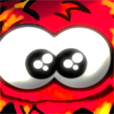
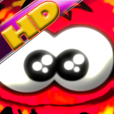
Final version for distribution on all platforms.

diff --git a/source/FuzzyCubes.cpp b/source/FuzzyCubes.cpp
@@ -6514,11 +6514,13 @@ void Init()
 {
 	// android
 	// initialize orientation for android, take out for ios
+	// testing
+	/* Only for marmalade 6.0
 	if( s3eDeviceGetInt( S3E_DEVICE_OS ) != S3E_OS_ID_IPHONE )
 	{
 		s3eSurfaceSetInt(S3E_SURFACE_DEVICE_ORIENTATION_LOCK, 4);
 	}
-		
+	*/	
 
 
 	IwGxInit(); // for rendering 3d/2d
@@ -6573,8 +6575,8 @@ void Init()
 		if(s3eDeviceGetInt (S3E_DEVICE_OS) == S3E_OS_ID_IPHONE)
 		{
 			//s3eFlurryStart("SBI85EBKAWR1ETK5CCW9");
-			s3eFlurryStart(""); // Fuzzy Cubes HD Beta iPhone	
-			printf("Started Flurry...\n");
+			s3eFlurryStart("MK3RKHHRZZ3VFC7MEBYI"); // Fuzzy Cubes HD
+			//printf("Started Flurry...\n");
 		}
 		// Android Applicaton Key
 		else if(s3eDeviceGetInt (S3E_DEVICE_OS) == S3E_OS_ID_ANDROID)
@@ -19298,7 +19300,7 @@ void ReleaseHighScoreMenuScreenButtons()
 				else // if has connection
 				{
 					// launch the link
-					if( s3eOSExecExecute( "itms-apps://itunes.apple.com/app/id500897011?ls=1&mt=8", false ) != S3E_RESULT_SUCCESS )
+					if( s3eOSExecExecute( "itms-apps://itunes.apple.com/us/app/fuzzycubes-hd/id534802429?ls=1&mt=8", false ) != S3E_RESULT_SUCCESS )
 					{
 						printf("Failed to launch link to app store\n");
 					}
